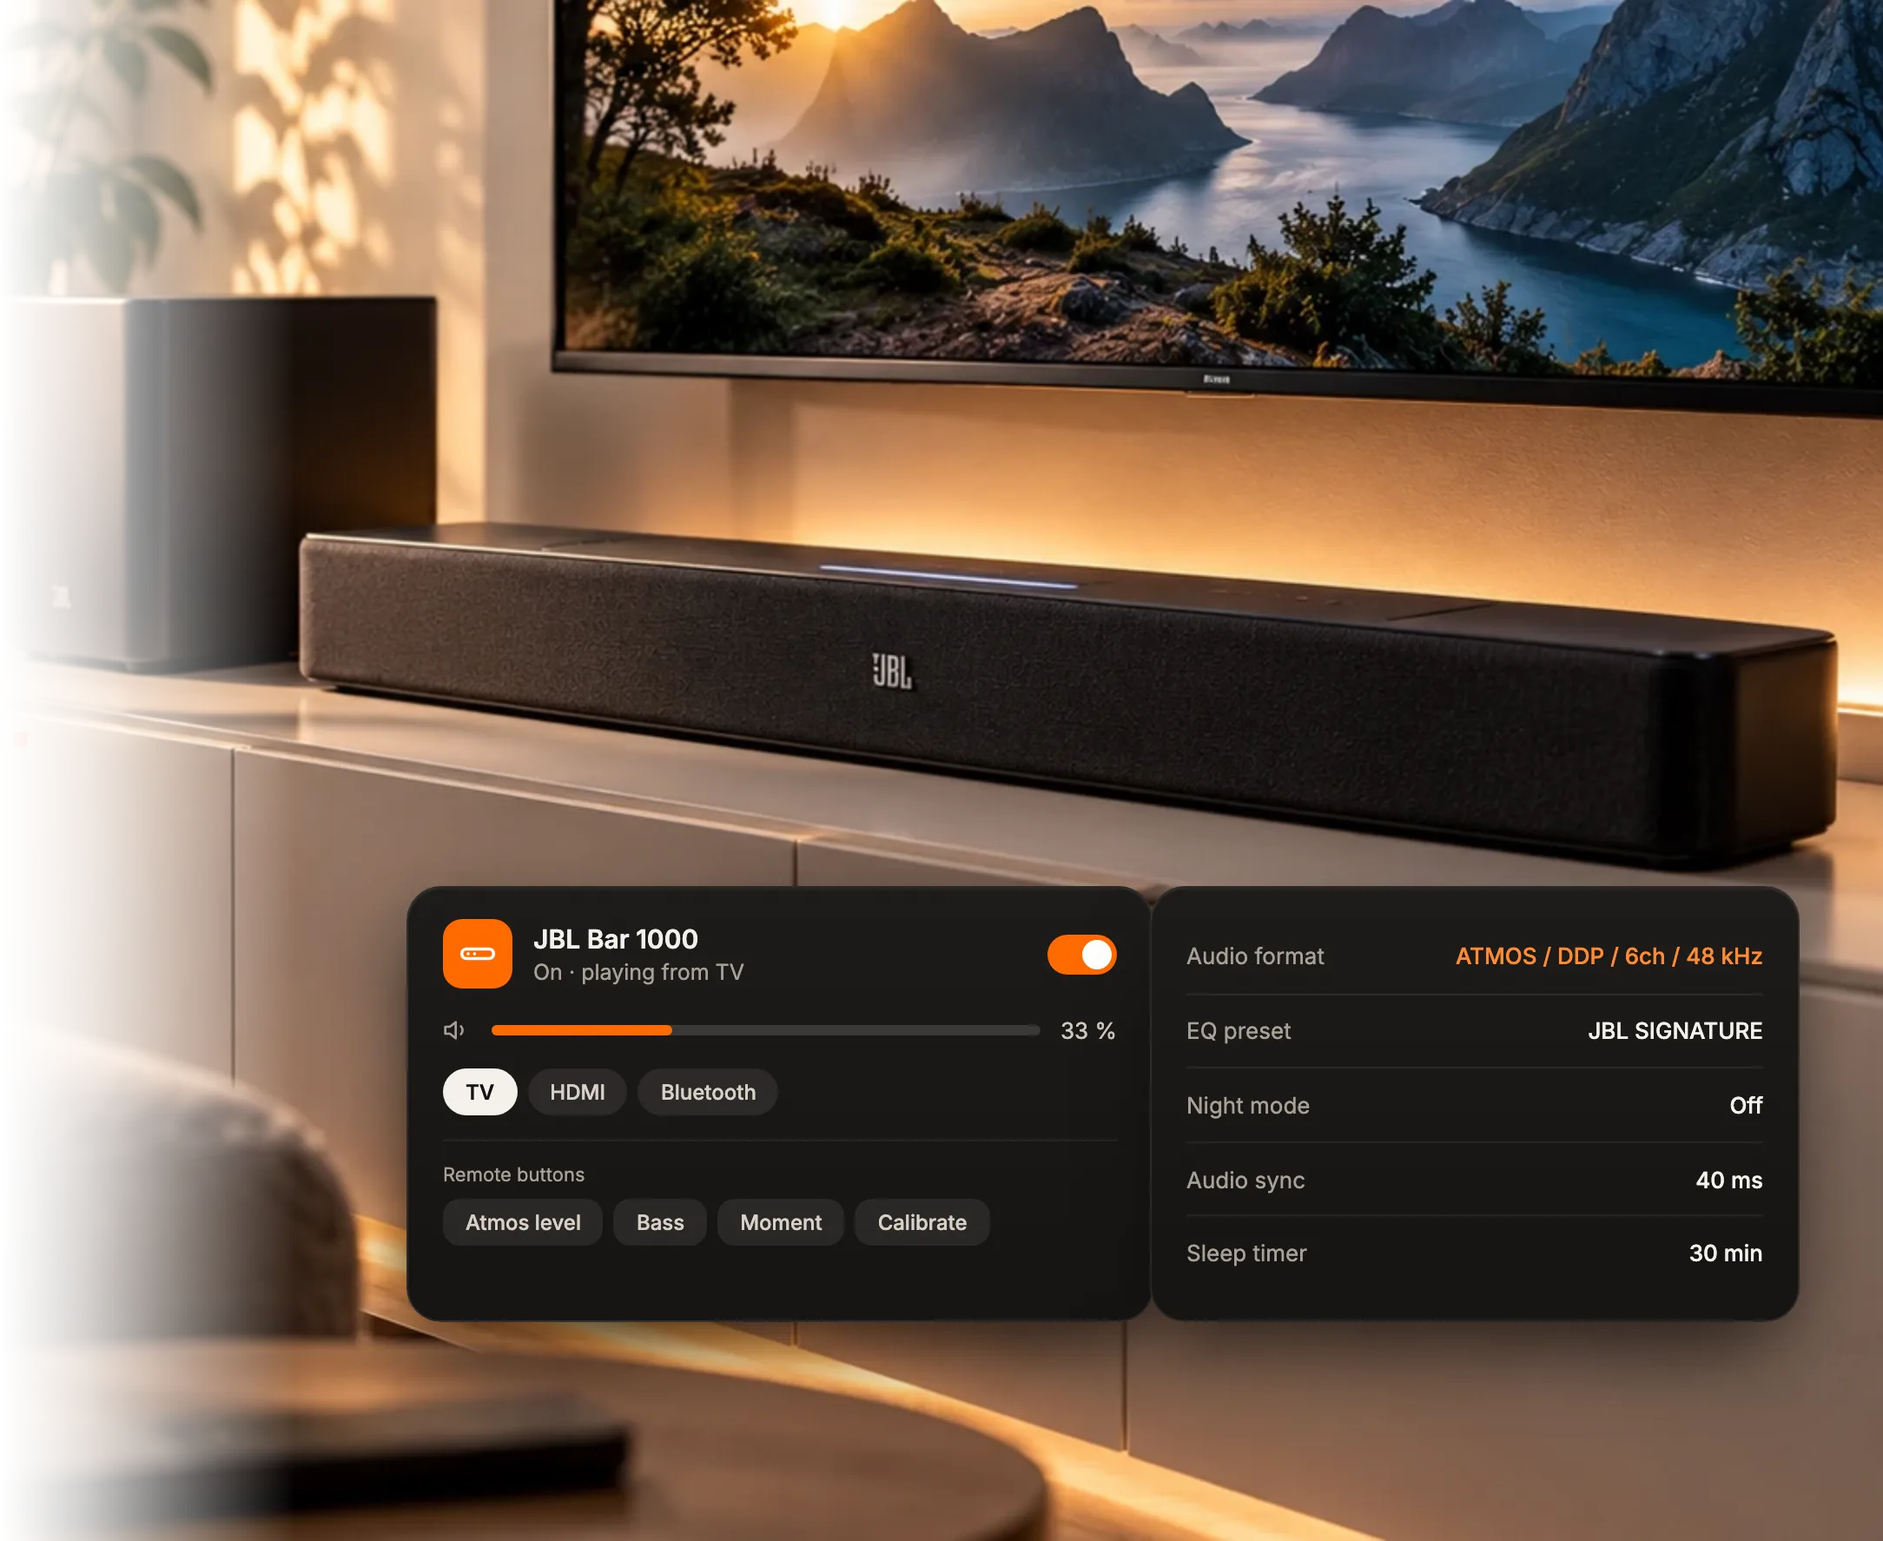
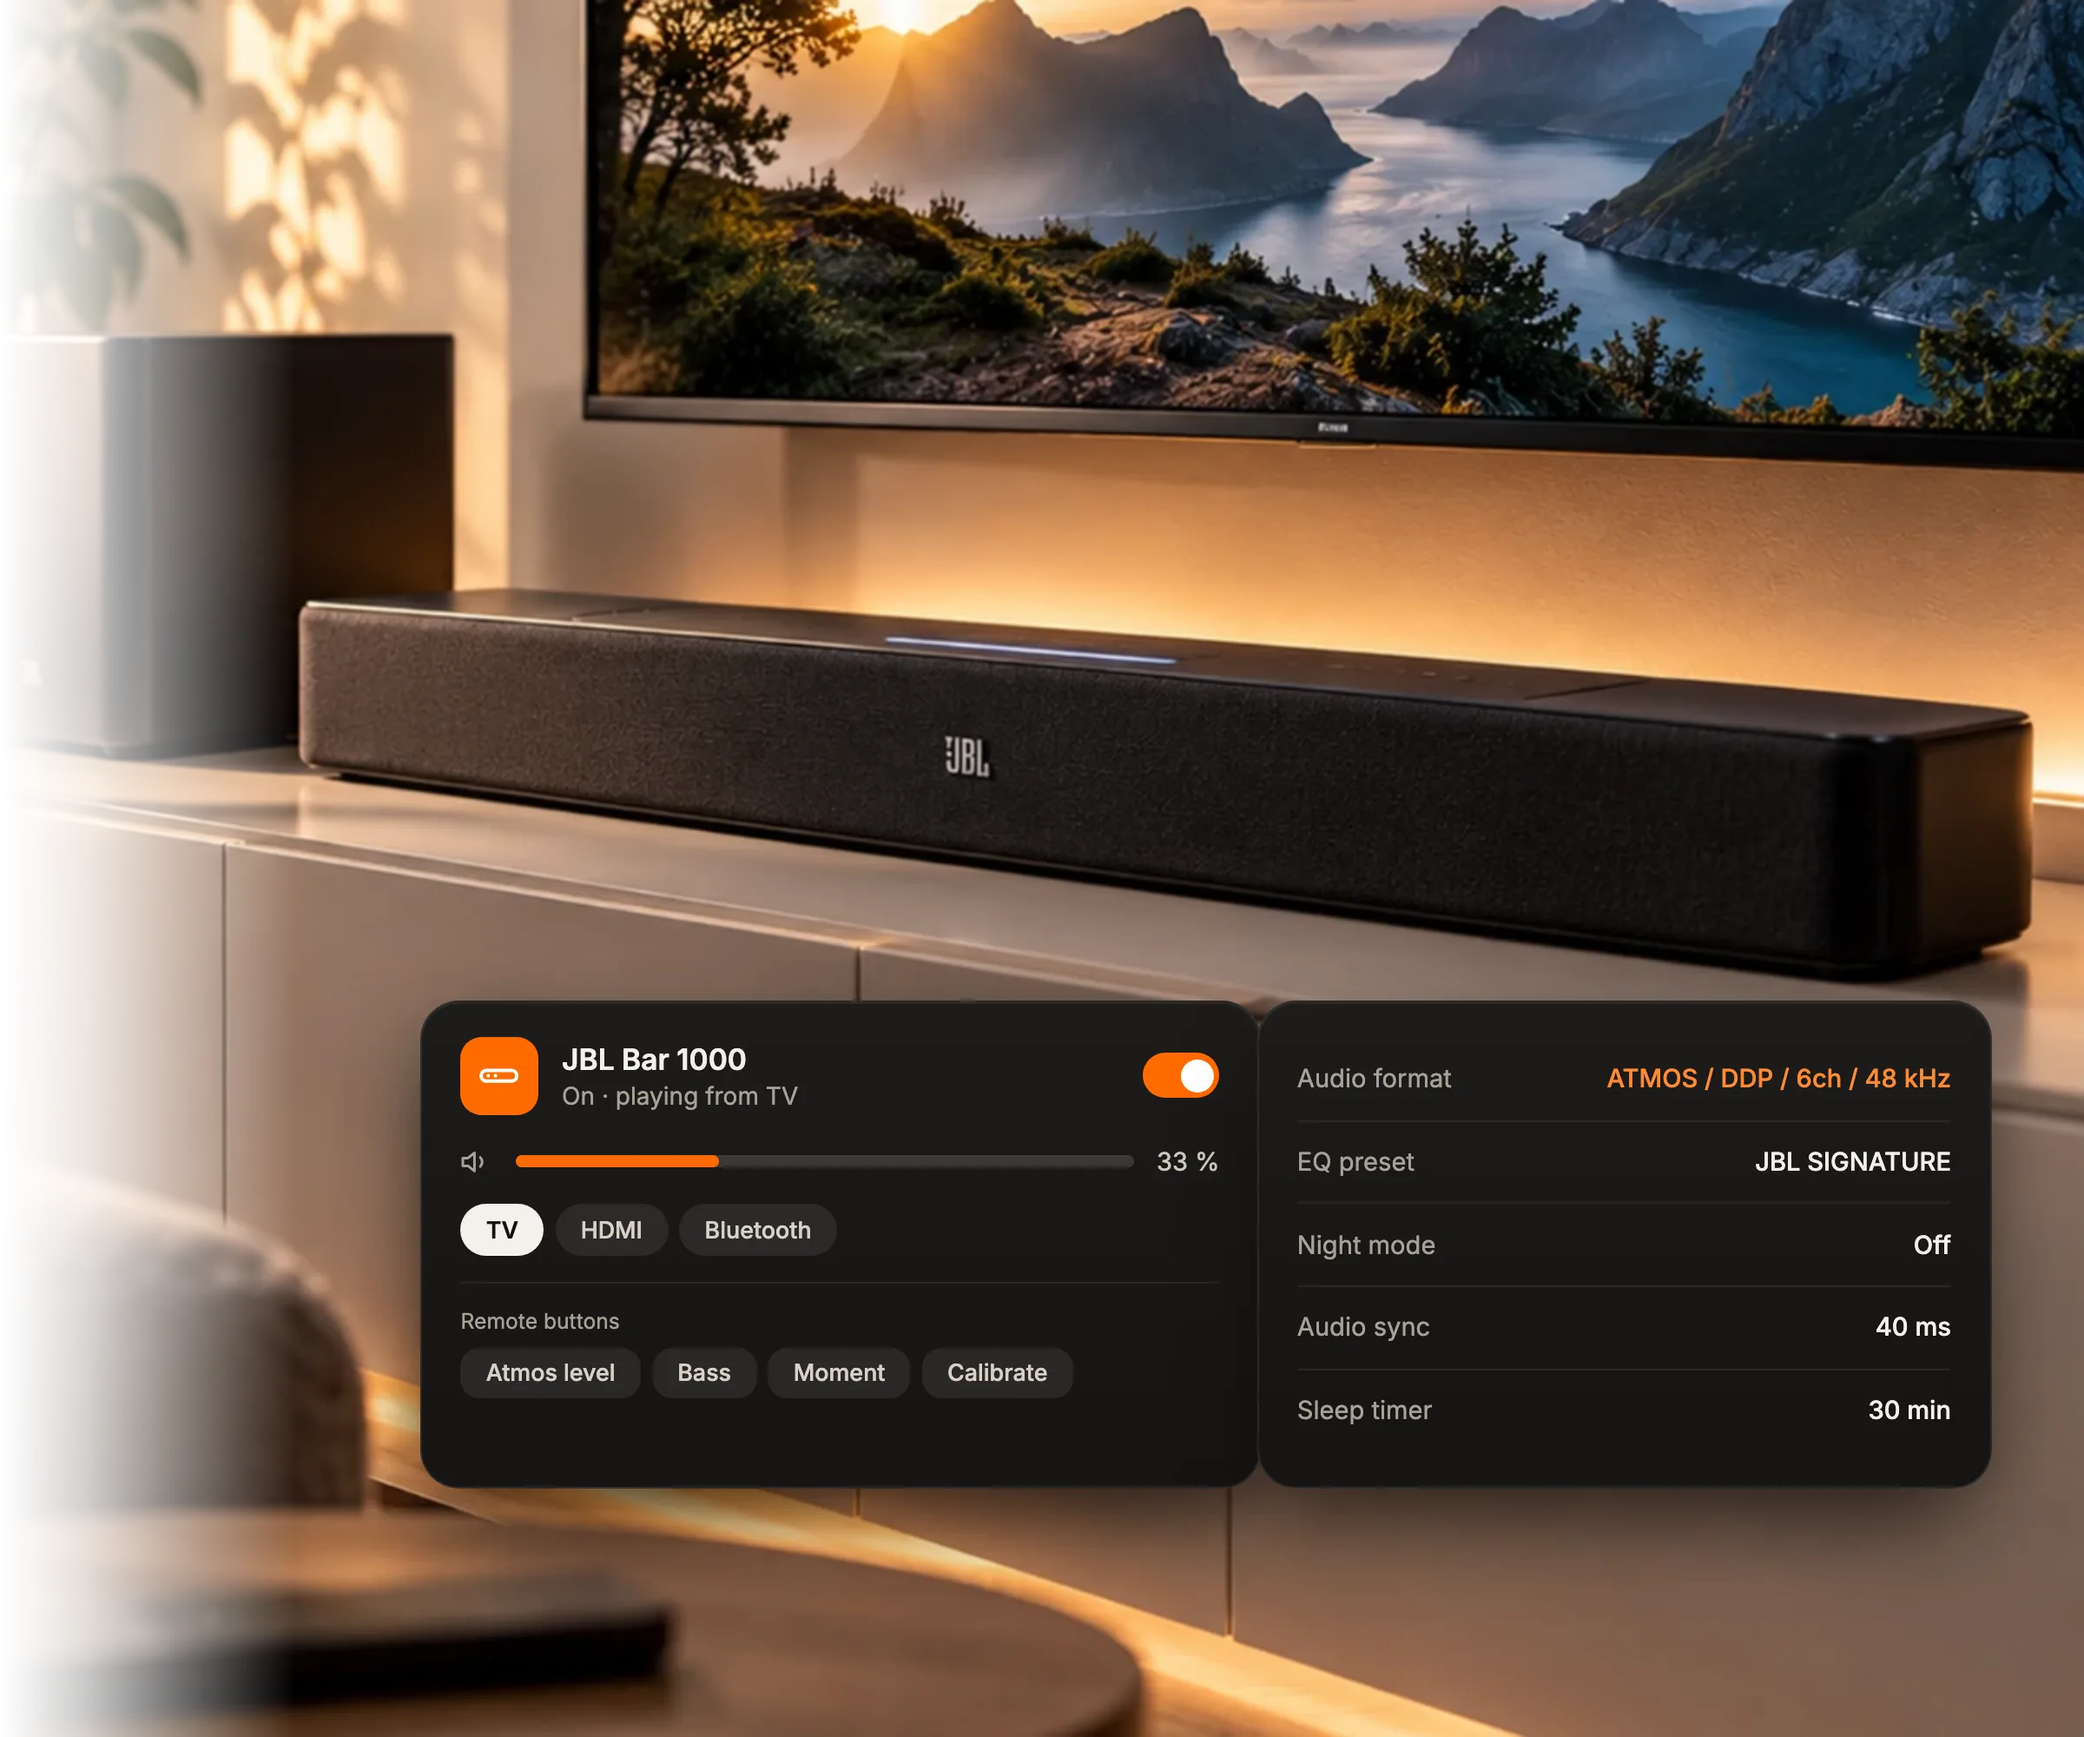
docs: use the larger scene picture
hero-photo and hero-scene rebuilt from the 2000 x 1000 version of the
AI-generated scene (metadata stripped, English cards over the panels),
README title light and dark re-rendered, page image size updated.

Claude-Session: https://claude.ai/code/session_01ULsc5ZrKnvkcrEhHsqXvCz

diff --git a/docs/index.html b/docs/index.html
@@ -104,7 +104,7 @@ section.tint { background: var(--bg-2); }
 .pill i { width: 7px; height: 7px; border-radius: 50%; background: var(--orange); display: inline-block; }
 
 /* Bühne: Szene (KI-Bild) mit Karten darunter (bleibt in beiden Themes dunkel) */
-.scene { display: block; width: calc(100% + 2 * clamp(16px, 4vw, 48px)); max-width: none; margin: 0 calc(-1 * clamp(16px, 4vw, 48px)); aspect-ratio: 1062 / 500; object-fit: cover; border-radius: var(--radius-lg) var(--radius-lg) 0 0;
+.scene { display: block; width: calc(100% + 2 * clamp(16px, 4vw, 48px)); max-width: none; margin: 0 calc(-1 * clamp(16px, 4vw, 48px)); aspect-ratio: 1188 / 570; object-fit: cover; border-radius: var(--radius-lg) var(--radius-lg) 0 0;
   -webkit-mask-image: linear-gradient(180deg, #000 72%, transparent); mask-image: linear-gradient(180deg, #000 72%, transparent); }
 .stage { position: relative; margin: clamp(48px, 7vw, 84px) auto 0; max-width: 1000px; border-radius: var(--radius-lg); padding: 0 clamp(16px, 4vw, 48px) clamp(28px, 5vw, 56px);
   background: radial-gradient(ellipse at 50% 0%, #2a1a0e, #0d0b0a 70%); box-shadow: var(--shadow-lg), inset 0 0 0 1px rgba(255,255,255,0.06); color: #f4f1ec; }
@@ -304,7 +304,7 @@ footer .fine { flex-basis: 100%; line-height: 1.6; }
     </p>
 
     <div class="stage reveal d3" role="img" aria-label="Illustration: a soundbar with its subwoofer below a TV in warm evening light, below it a media player card and a list of entity values. AI-generated scene, made-up values.">
-      <img class="scene" src="images/hero-scene.webp" width="2124" height="1000" fetchpriority="high" alt="">
+      <img class="scene" src="images/hero-scene.webp" width="2376" height="1140" fetchpriority="high" alt="">
       <div class="cards" style="margin-top: clamp(-28px, -2vw, -12px); position: relative;">
         <div class="hc">
           <div class="top">
